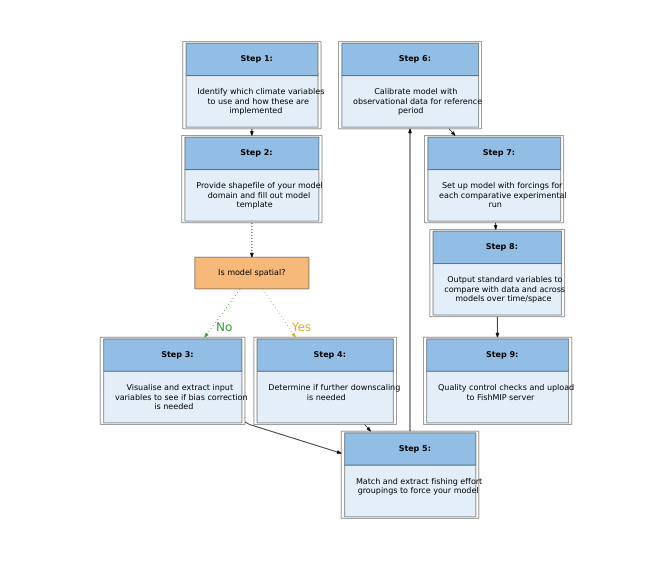
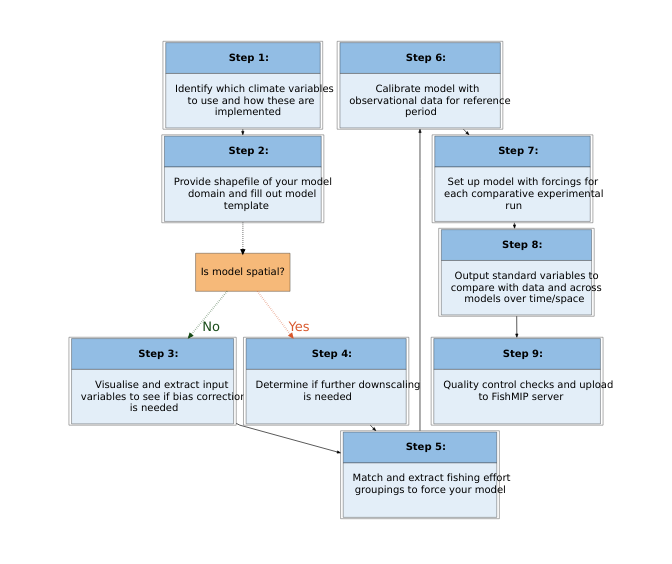
increasing font size of decisions

Changed region(s): [[0.0938, 0.0603, 0.9062, 0.9344], [0.2812, 0.422, 0.4688, 0.5426]]

diff --git a/Scripts/00_Regional_model_workflow.md b/Scripts/00_Regional_model_workflow.md
@@ -43,7 +43,7 @@ node [
       style = filled
       fillcolor = 'white'
       fontname = 'Helvetica,Arial,sans-serif'
-      fontsize = 20
+      fontsize = 30
       width = 4
       ]
       
@@ -124,11 +124,11 @@ Step_9 [label = <<table border='0' cellborder='1' cellspacing='0' cellpadding='2
 subgraph sub_1 {
   
   Step_1 -> Step_2 
-  Step_2 -> Step_n [style = dotted]
-  Step_n -> Step_3 [label = 'No' fontcolor = '#329932' style = dotted color = '#329932' 
-                    fontname = 'bold Helvetica,Arial,sans-serif']
-  Step_n -> Step_4 [label = 'Yes' fontcolor = '#d8ae2d' style = dotted color = '#d8ae2d'
-                    fontname = 'bold Helvetica,Arial,sans-serif']
+  Step_2 -> Step_n [style = dotted penwidth = 5]
+  Step_n -> Step_3 [label = 'No' fontcolor = '#194c19' style = dotted color = '#194c19' 
+                    fontname = 'bold Helvetica,Arial,sans-serif' penwidth = 5 fontsize = 40]
+  Step_n -> Step_4 [label = 'Yes' fontcolor = '#d8582d' style = dotted color = '#d8582d'
+                    fontname = 'bold Helvetica,Arial,sans-serif' penwidth = 5 fontsize = 40]
   {Step_3 Step_4} -> Step_5
   Step_5 -> Step_6 [weight = 10 splines = line];
   }
